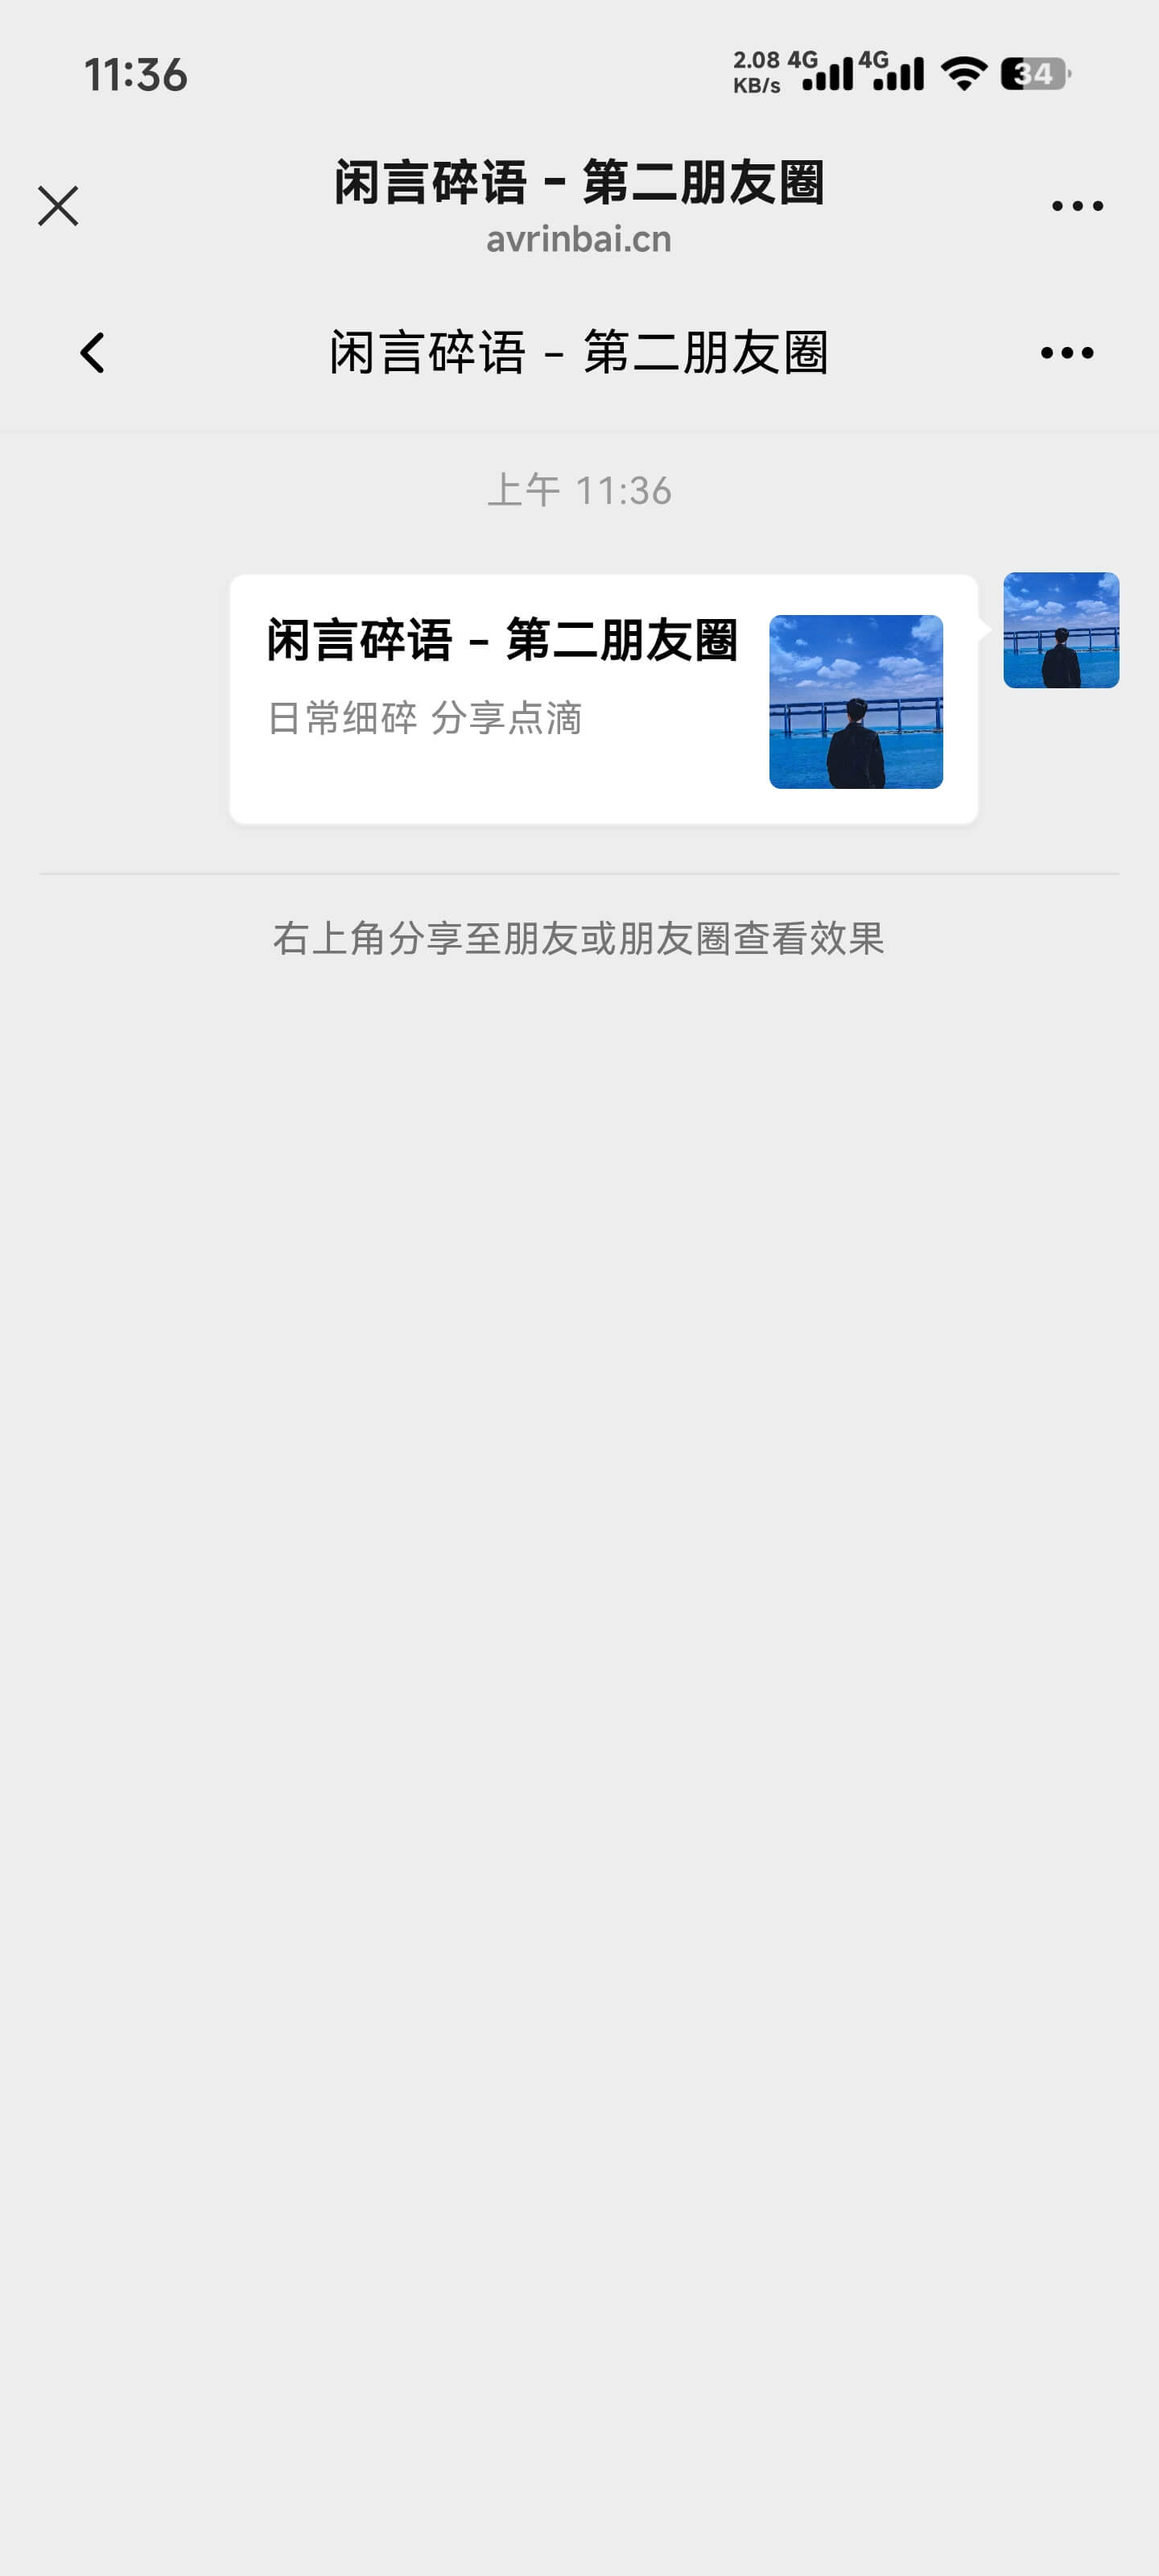
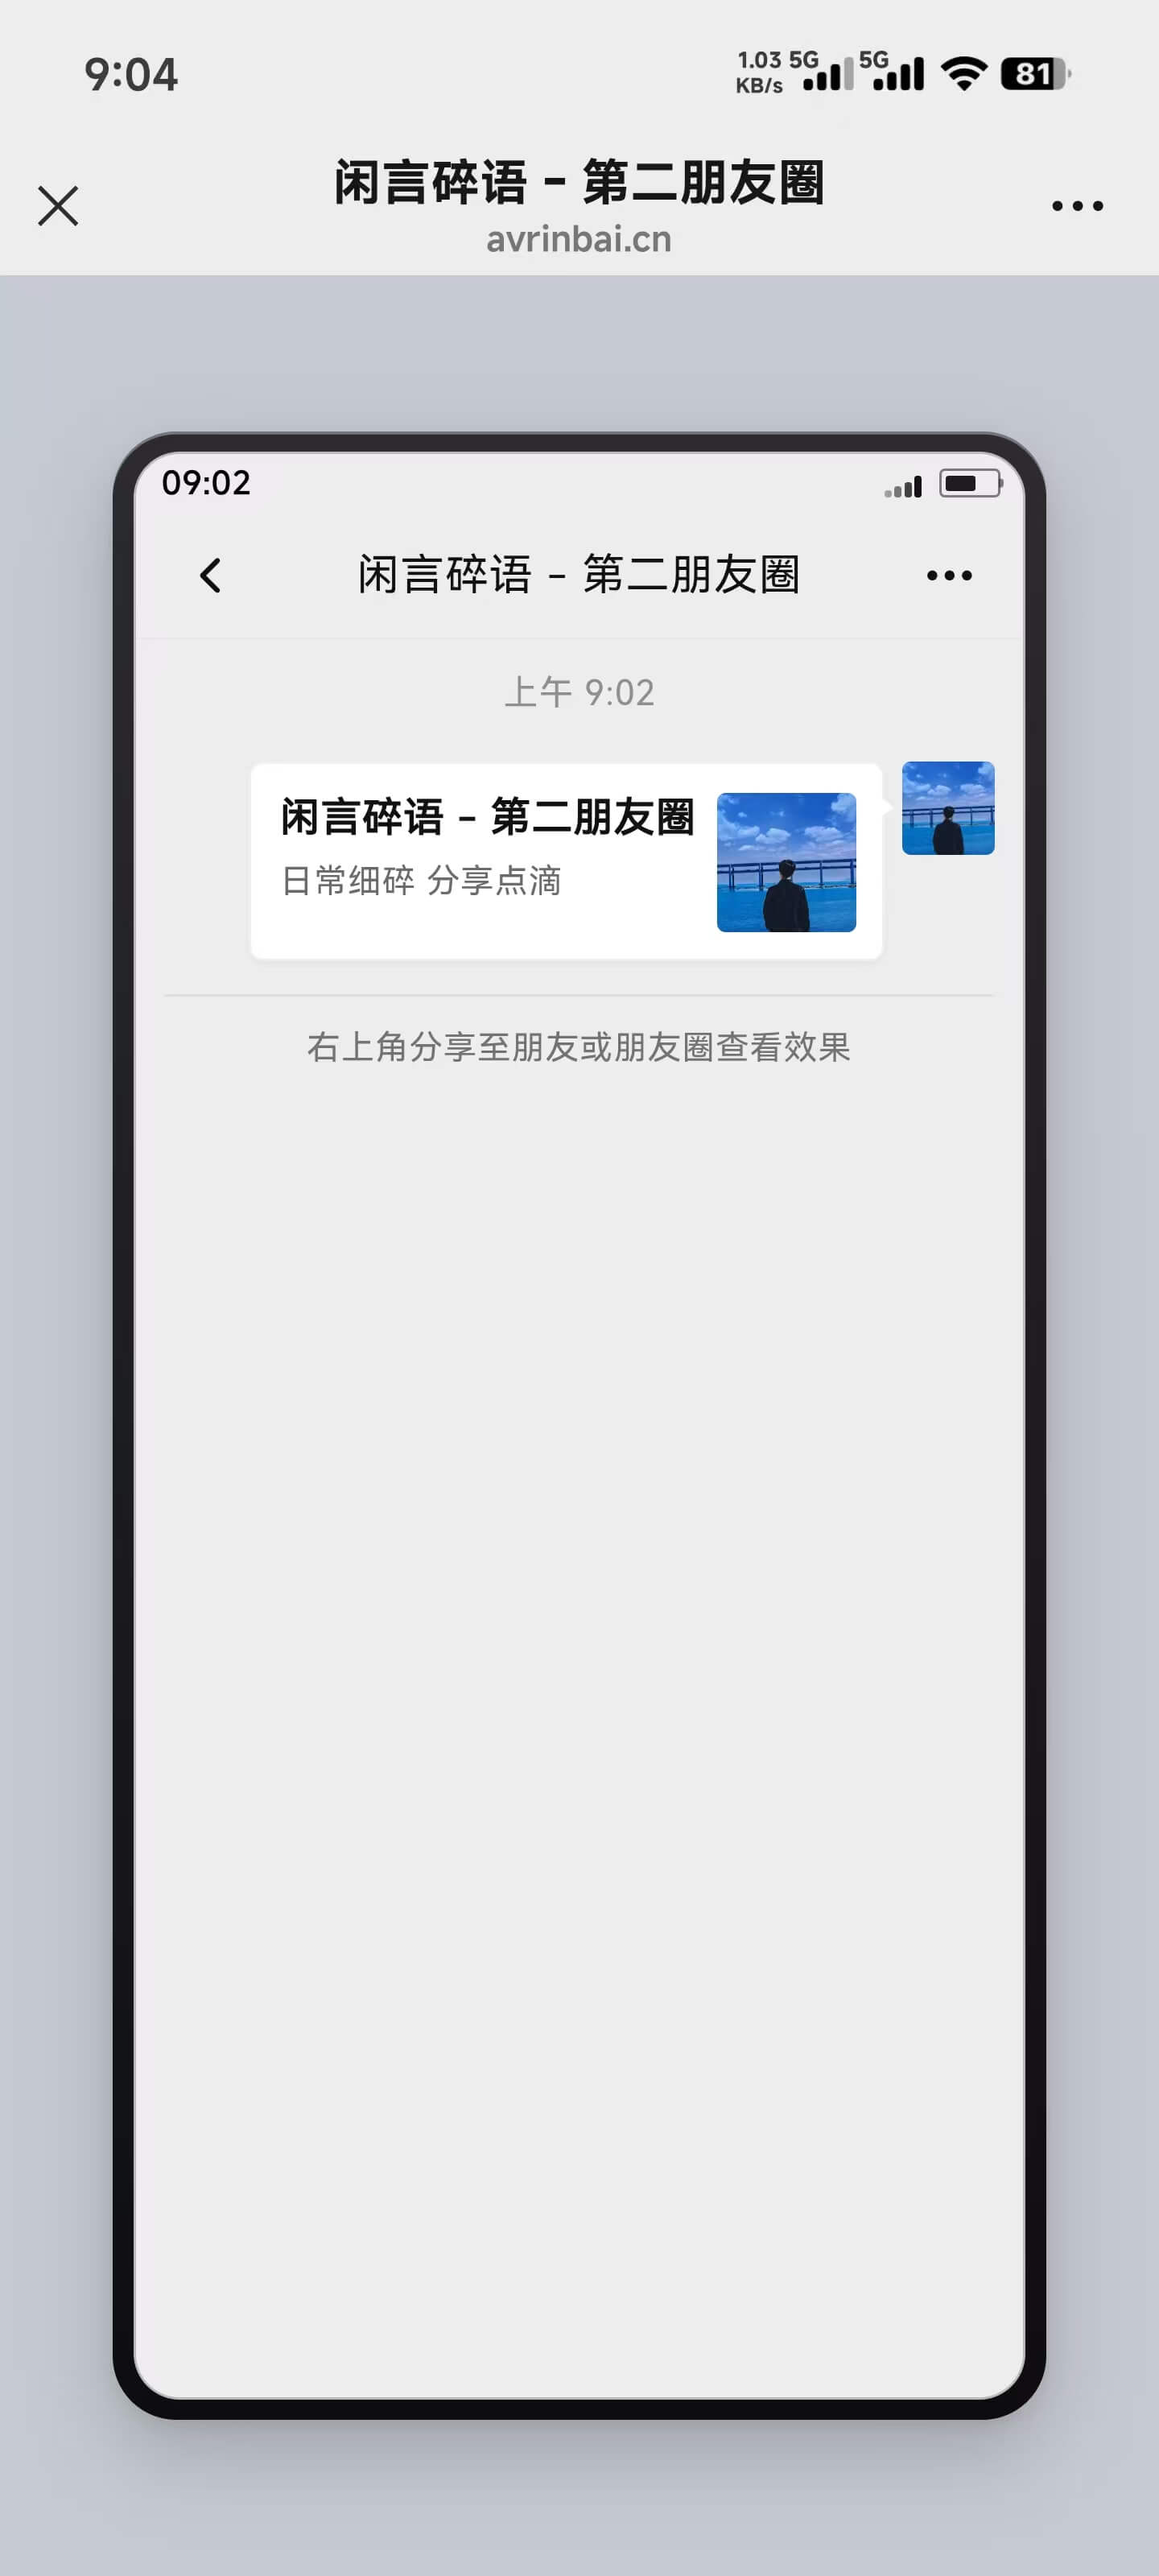
feat: 二维码生成本地化；链接落地页样式优化与文档更新等

diff --git a/README.md b/README.md
@@ -51,9 +51,9 @@
 
 - 多种卡片类型：支持 **卡片 / 图片 / 音频 / 视频 / 文件** 专属页样式（详见下节）
 - 分享内容自定义：标题、摘要/介绍、封面图、媒体或跳转地址等；每张卡片独立 **SID**，数据存 Halo 扩展资源
-- 控制台列表：复制分享链接、编辑、删除；支持 **二维码预览**（分享链接依赖 Halo **外部访问地址**；二维码由**插件内**生成并**写入扩展资源**缓存，无需第三方二维码 HTTP 接口）
+- 控制台列表：复制分享链接、编辑、删除；支持 **二维码预览**（不依赖外部访问地址与二维码生成接口）
 - 数据看板：汇总访问指标、近七日趋势、访问量排行、访问明细筛选与详情（详见 [数据看板](#数据看板)）
-- 插件设置：公众号 **AppId / AppSecret**（服务端换票与 `wx.config` 签名）、**公开路径前缀**（默认 `/wechat-share`）；可选 **实验性 IP 归属查询** 及上游接口地址
+- 插件设置：公众号 **AppId / AppSecret**（服务端换票与 `wx.config` 签名）、**公开路径前缀**（默认 `/wechat-share`）、可选 **实验性 IP 归属查询** 及上游接口地址
 - 分享落地页在微信内置浏览器中加载 **jweixin**，调用 `updateAppMessageShareData` / `updateTimelineShareData` 更新会话与朋友圈分享卡片
 
 ## 卡片类型说明
@@ -62,7 +62,7 @@
 
 | 类型 | 说明 | 落地页要点 |
 |------|------|------------|
-| **链接** | 适合普通外链分享 | 落地页为**手机框 + 仿对话**样式；分享卡片点开会 **302 跳转到** 你填写的跳转 URL（`/go?sid=`） |
+| **链接** | 适合普通外链分享 | 分享卡片点开会 **302 跳转到** 你填写的跳转 URL（`/go?sid=`） |
 | **图片** | 以图为主、可配文案 |分享回流仍为落地页 |
 | **音频** | 音乐/播客等 | 分享回流仍为落地页 |
 | **视频** | 竖屏沉浸预览 | 分享回流仍为落地页 |
